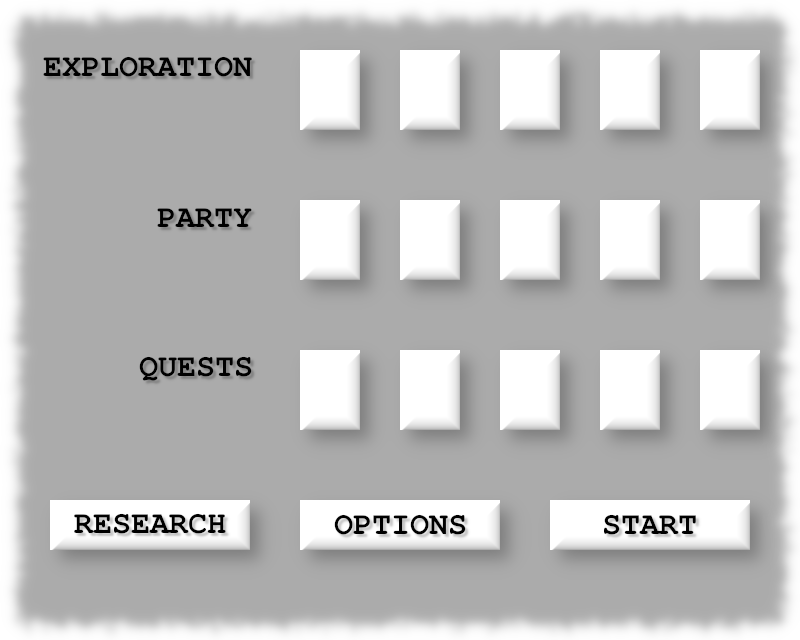
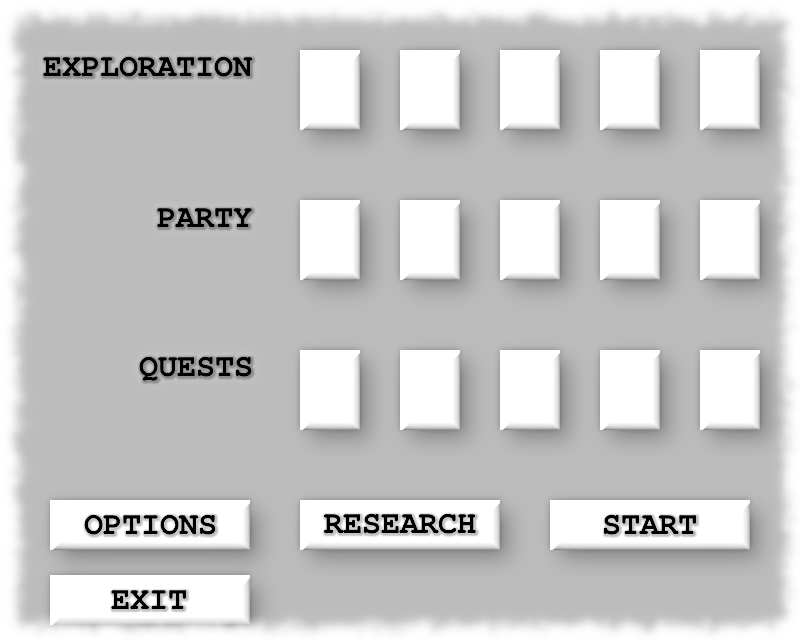
Add Exit Button

diff --git a/game/main_screen.py b/game/main_screen.py
@@ -37,13 +37,15 @@ class SelectButton(ControlComponent):
         return False
 
 class ActionButton(ControlComponent):
-    def __init__(self, system:ControlSystem, position:Position, callback:Callable[[bool],None]):
-        super().__init__(system)
+    def __init__(self, game:Game, position:Position, callback:Callable[[bool],None]):
+        super().__init__(game[ControlSystem])
         self.rect = Rectangle(position.x, position.y, position.x + 200, position.y + 50)
         self.callback = callback
+        pressed = game.loadImage('image.gui.button.action.pressed.png')
+        self.pressedImage = GuiSimpleImage(game, pressed, position)
+        
     
     def mouseClick(self, screenPosition: Position, worldPosition: Position) -> bool:
-        print('Click', self.rect)
         if screenPosition in self.rect:
             self.callback(True)
             return True
@@ -54,6 +56,12 @@ class ActionButton(ControlComponent):
             self.callback(False)
             return True
         return False
+    
+    def mousePosition(self, screenPosition: Position, worldPosition: Position) -> None:
+        if self.system.buttonLeftDown and screenPosition in self.rect:
+            self.pressedImage.enabled = True
+        else:
+            self.pressedImage.enabled = False
 
 
 def createMainScreenControls(game:Game, dimension:Dimension) -> Entity:
@@ -86,30 +94,30 @@ def createMainScreenControls(game:Game, dimension:Dimension) -> Entity:
         'quest 5',
     ]
 
+    def closure(message):
+        def callback(value:bool):
+            print(message,  value)
+        return callback
+
     for j in range(3):
         for i in range(5):
-            def closure(message):
-                def callback(value:bool):
-                    print(message,  value)
-                return callback
-            
             message = actions[j * 5 + i]
             callback = closure(message)
             position = Position(300 + i * 100, 50 + 150 * j)
             component = SelectButton(game[ControlSystem], position, callback)
             entity.add(component)
     
-    actions = ['reserach', 'options', 'start']
+    actions = ['options', 'reserach', 'start']
     for i in range(3):
-        def closure(message):
-            def callback(value:bool):
-                print(message,  value)
-            return callback
-        
         callback = closure(actions[i])
         position = Position(50 + 250 * i, 500)
-        component = ActionButton(game[ControlSystem], position, callback)
+        component = ActionButton(game, position, callback)
         entity.add(component)
+    
+    callback = lambda isRight: game.exit() if isRight else None
+    position = Position(50, 575)
+    component = ActionButton(game, position, callback)
+    entity.add(component)
     
     return entity
 

diff --git a/systems/control_system.py b/systems/control_system.py
@@ -16,8 +16,8 @@ class ControlComponent:
     def mouseClickRight(self, screenPosition: Position, worldPosition: Position) -> bool:
         return False
 
-    def mouseMove(self, screenPosition: Position, worldPosition: Position) -> bool:
-        return False
+    def mousePosition(self, screenPosition: Position, worldPosition: Position) -> None:
+        pass
 
     @property
     def enabled(self):
@@ -44,7 +44,7 @@ class ControlSystem:
         self.enabled = True
         self.game.device.addListenerClick(self.mouseClick)
         self.game.device.addListenerClickRight(self.mouseClickRight)
-        self.game.device.addListenerMove(self.mouseMove)
+        self.game.device.addListenerMove(self.mousePosition)
         self.game.tickSystems.append(self)
         self._position:Position = Position()
         self._lastPosition: Position = Position()
@@ -65,7 +65,7 @@ class ControlSystem:
             self._clickPositionRight = screenPosition
             self._clickRight = True
 
-    def mouseMove(self, screenPosition: Position) -> None:
+    def mousePosition(self, screenPosition: Position) -> None:
         if self.enabled:
             self._position = screenPosition
 
@@ -98,5 +98,4 @@ class ControlSystem:
 
             worldPosition = self.screenToWorldPosition(movePosition)
             for control in self.components.copy():
-                if control.mouseMove(movePosition, worldPosition):
-                    break
+                control.mousePosition(movePosition, worldPosition)

diff --git a/gui/visualization.py b/gui/visualization.py
@@ -20,7 +20,7 @@ class DragCameraComponent(ControlComponent):
         self.enabled = True
         self._lastPosition:Position = Position()
 
-    def mouseMove(self, screenPosition: Position, worldPosition: Position) -> bool:
+    def mousePosition(self, screenPosition: Position, worldPosition: Position) -> bool:
         if self.system.buttonRightDown:
             position = self.game.device.camera.translate
             source = self._lastPosition
@@ -42,7 +42,7 @@ class MoveCameraComponent(ControlComponent):
         self.dimension = dimension
         self.enabled = True
 
-    def mouseMove(self, screenPosition: Position, worldPosition: Position) -> bool:
+    def mousePosition(self, screenPosition: Position, worldPosition: Position) -> bool:
         offset = Position()
         x, y = screenPosition
         base = 10

diff --git a/gui/selection.py b/gui/selection.py
@@ -98,7 +98,7 @@ class SelectPathComponent(ControlComponent):
             return True
         return False
 
-    def mouseMove(self, screenPosition: Position, worldPosition: Position) -> bool:
+    def mousePosition(self, screenPosition: Position, worldPosition: Position) -> bool:
         if self.enabled:
             source = self.selectedEntity[PositionComponent].position
             self.updatePath(source, worldPosition)

diff --git a/core.py b/core.py
@@ -128,6 +128,9 @@ class Game(Entity):
     def isRunning(self) -> bool:
         return self.device.running
 
+    def exit(self) -> None:
+        self.device.running = False
+
     def setActive(self):
         self.gameLoop.game = self
 

diff --git a/todo.md b/todo.md
@@ -39,6 +39,7 @@
 
 - [ ] Algumas paredes podem conter passagens secretas. Em vez da entidade colidir com a parede, a passagem secreta será revelada expandindo o campo de visão que antes era limitado pela parede falsa.
 
+- [ ] Alguns poderes estão associados aos sentidos considerando os sentidos básicos e especializados. A visão é responsável pela percepção visual, além de identificar as entidades dentro do campo de visão, ela identifica o nível de dificuldade dos inimigos através de sua cor e também é importante para leitura de mensagens espalhadas no cenário. A audição identifica entidades invisíveis móveis ou ocultas, como mecanismos e armadilhas baseadas em mecanismos, além de escuta de mensagens emitidas pelas entidades. O olfato identifica armadilhas baseadas em veneno e também entidades invisíveis imóveis ou até mesmo rastrear entidades. O tato identifica entidades próximas, como armadilhas e mecanismos baseados em pressão, e também alterações no cenários como tremores. O paladar pode identificar alimentos venenosos além de oferecer bônus e penalidades para preferências alimentares como carnívoro, onívoro e vegetariano. Podemos citar como sentidos especializados a capacidade de sentir a magia nas entidades, sentir o cheiro de sangue, etc.
 
 ## Programação
 
